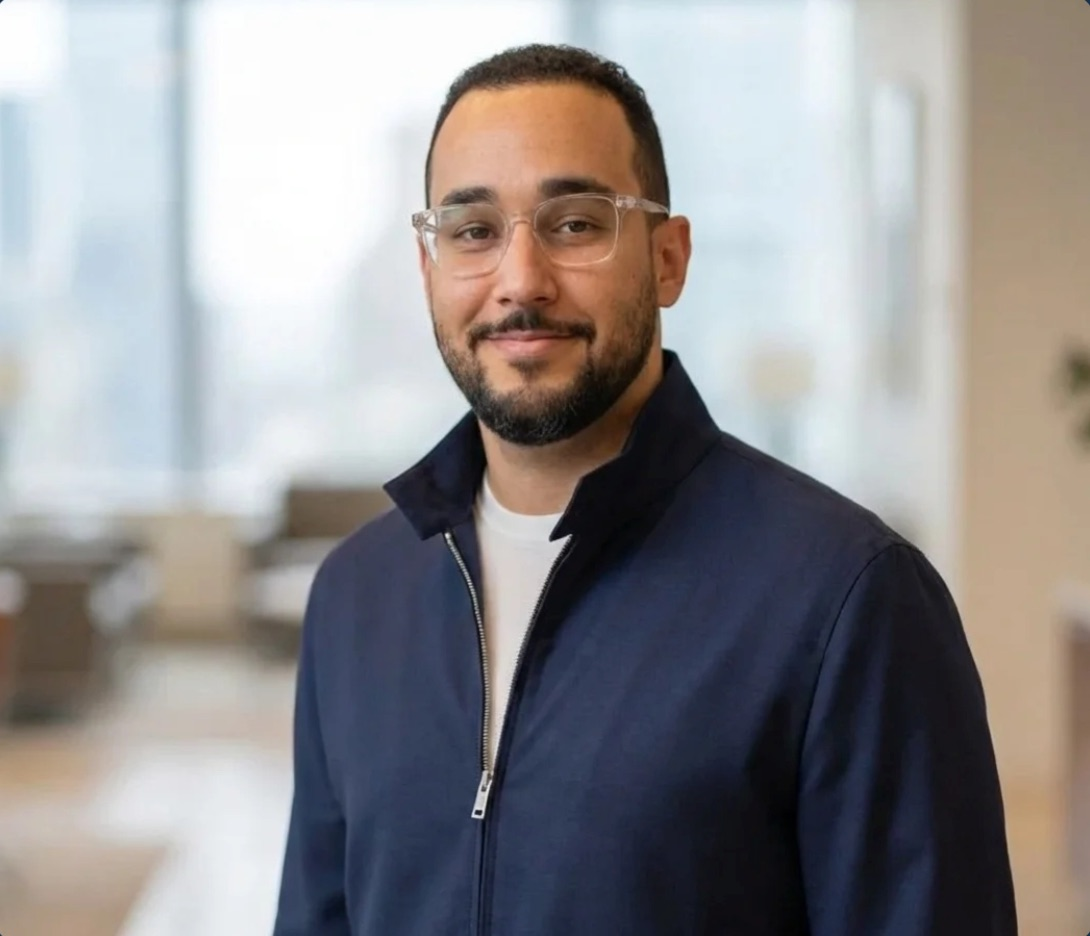
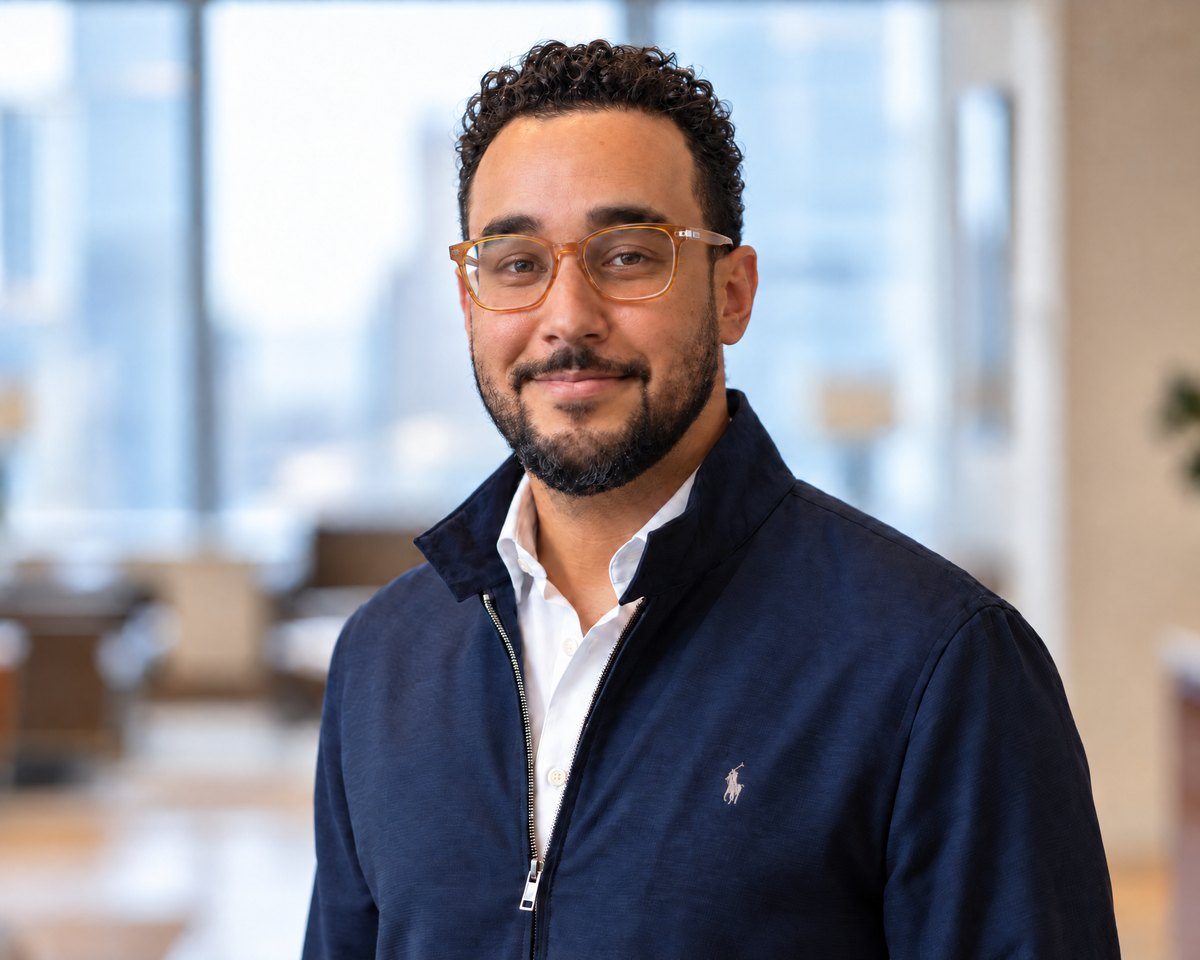
Atualiza textos, serviços, Gestão 360, FAQ e foto do fundador
- Primeira dobra: novo título e texto; cartão do fundador reescrito
- Pilares e públicos com os textos revisados
- Serviços: novo cartão de redes franqueadas e destaque de parceria
  com participação nos resultados
- Gestão 360: cinco cartões (inclui planejamento estratégico e gestão
  financeira) e resposta do FAQ alinhada
- FAQ: nova pergunta sobre o modelo sem investimento inicial
- Fundador: novo texto biográfico e nova foto

diff --git a/index.html b/index.html
@@ -51,21 +51,21 @@
   <section class="dark">
     <div class="wrap hero">
       <div class="hero-copy">
-        <h1>Gestão esportiva e negócios para <span>clubes e atletas</span></h1>
-        <p class="lead">A Horizon Sports &amp; Business atua na gestão de clubes, no desenvolvimento de carreiras de atletas e na estruturação de escolas e academias. Nosso trabalho reúne planejamento esportivo, marketing e negócios, com experiência em futebol, futsal e formação de atletas de alto rendimento.</p>
+        <h1>Gestão, marketing e operações <span>no esporte</span></h1>
+        <p class="lead">A Horizon Sports &amp; Business atua na gestão de clubes, no desenvolvimento de carreiras de atletas e na estruturação de escolas e academias. Trabalhamos com planejamento esportivo, marketing e desenvolvimento de negócios, com experiência relevante no futebol, no futsal e na formação de atletas de alto rendimento.</p>
         <div class="actions">
           <a href="#solucoes" class="btn">Conheça nossas soluções</a>
           <a href="#contato" class="btn btn-ghost">Converse com a Horizon</a>
         </div>
       </div>
       <div class="founder">
-        <img src="assets/thiago-amorim.jpg" alt="Thiago Amorim, fundador da Horizon Sports &amp; Business" width="1090" height="936">
+        <img src="assets/thiago-amorim.jpg" alt="Thiago Amorim, fundador da Horizon Sports &amp; Business" width="1200" height="960">
         <div class="founder-body">
           <div class="founder-top">
             <strong>Thiago Amorim</strong>
             <span>Fundador</span>
           </div>
-          <p>Profissional de Educação Física, com MBA em Gestão Estratégica de Negócios, pós-graduação em Gestão e Marketing do Esporte e mais de 20 anos de experiência em clubes, entidades e projetos do setor esportivo.</p>
+          <p>Profissional de Educação Física com mais de 20 anos de experiência em gestão, marketing e negócios no esporte. Possui MBA em Gestão Estratégica de Negócios e pós-graduação em Gestão e Marketing do Esporte.</p>
         </div>
       </div>
     </div>
@@ -79,11 +79,11 @@
         <h2 class="h2">Os cinco pilares de atuação</h2>
       </div>
       <div class="grid-5">
-        <div class="pillar"><span class="n">01</span><h3>Gestão</h3><p>Estruturamos a gestão de clubes, carreiras de atletas, escolas e academias, com processos, equipes e indicadores para orientar decisões.</p></div>
+        <div class="pillar"><span class="n">01</span><h3>Gestão</h3><p>Estruturamos a gestão de clubes, carreiras de atletas, escolas e academias, com processos definidos, responsabilidades claras e indicadores para orientar decisões.</p></div>
         <div class="pillar"><span class="n">02</span><h3>Marketing</h3><p>Trabalhamos a marca e a comunicação de clubes, atletas, escolas e academias para ampliar sua visibilidade e fortalecer o relacionamento com seus públicos.</p></div>
-        <div class="pillar"><span class="n">03</span><h3>Metodologia</h3><p>Organizamos programas de treinamento e ensino, com planejamento e critérios para acompanhar o desempenho esportivo e a formação de atletas e alunos.</p></div>
-        <div class="pillar"><span class="n">04</span><h3>Negócios</h3><p>Intermediamos patrocínios e desenvolvemos oportunidades de licenciamento e parcerias comerciais para clubes, atletas, escolas e academias, ampliando suas fontes de receita.</p></div>
-        <div class="pillar"><span class="n">05</span><h3>Gestão de Futebol e Futsal</h3><p>Atuamos na gestão 360 de departamentos de futebol e futsal, com expertise no planejamento esportivo e na formação e desenvolvimento de atletas de alto rendimento.</p></div>
+        <div class="pillar"><span class="n">03</span><h3>Metodologia</h3><p>Estruturamos programas de treinamento e ensino, com objetivos e critérios para acompanhar o desempenho e a evolução de atletas e alunos.</p></div>
+        <div class="pillar"><span class="n">04</span><h3>Negócios</h3><p>Intermediamos negócios, parcerias e patrocínios e desenvolvemos oportunidades de licenciamento e parcerias comerciais para clubes, atletas, escolas e academias, com foco na geração de receitas.</p></div>
+        <div class="pillar"><span class="n">05</span><h3>Gestão de Futebol e Futsal</h3><p>Atuamos na gestão 360 de departamentos de futebol e futsal, com planejamento esportivo, organização das equipes e metodologia para a formação e o desenvolvimento de atletas de alto rendimento.</p></div>
       </div>
     </div>
   </section>
@@ -97,10 +97,10 @@
       </div>
       <div class="grid-5">
         <div class="aud"><h3>Clubes</h3><p>Gestão de departamentos, planejamento esportivo, formação de atletas e desenvolvimento comercial, conforme as necessidades de cada clube.</p></div>
-        <div class="aud"><h3>Carreiras de atletas</h3><p>Planejamento esportivo e de carreira, posicionamento de marca e comunicação para apoiar o desenvolvimento do atleta e suas oportunidades comerciais.</p></div>
-        <div class="aud"><h3>Escolas esportivas</h3><p>Gestão da operação, metodologia de ensino e organização do relacionamento com alunos e famílias.</p></div>
+        <div class="aud"><h3>Carreiras de atletas</h3><p>Planejamento de carreira, posicionamento de marca e comunicação, com foco no desenvolvimento esportivo e nas oportunidades comerciais do atleta.</p></div>
+        <div class="aud"><h3>Escolas esportivas</h3><p>Gestão da operação, metodologia de ensino e relacionamento com alunos e famílias.</p></div>
         <div class="aud"><h3>Academias e centros esportivos</h3><p>Estruturação de processos, gestão de equipes e marketing para organizar a operação e desenvolver o negócio.</p></div>
-        <div class="aud"><h3>Marcas e demais profissionais do esporte</h3><p>Patrocínios, ativações e parcerias comerciais para marcas, além de projetos de comunicação e posicionamento para profissionais do setor.</p></div>
+        <div class="aud"><h3>Marcas e demais profissionais do esporte</h3><p>Patrocínios, ativações e parcerias comerciais para marcas. Comunicação e posicionamento para profissionais do esporte.</p></div>
       </div>
     </div>
   </section>
@@ -111,17 +111,25 @@
       <div class="head">
         <span class="eyebrow">Soluções</span>
         <h2 class="h2">Serviços para a gestão e o desenvolvimento no esporte</h2>
-        <p class="sub">Thiago Amorim conduz os projetos da Horizon, com escopo definido para cada contratação. A atuação pode envolver consultoria, estruturação de operações e acompanhamento da gestão.</p>
+        <p class="sub">Thiago Amorim conduz os projetos da Horizon em consultoria, estruturação de operações e acompanhamento da gestão. As entregas são definidas conforme as necessidades de cada cliente.</p>
       </div>
       <div class="svc-grid">
-        <article class="svc feat"><h3>Gestão de clubes e departamentos de futebol e futsal</h3><p>Organização do departamento, planejamento esportivo e estruturação de processos para integrar a gestão e o trabalho das equipes técnicas.</p></article>
-        <article class="svc"><h3>Desenvolvimento de carreiras de atletas</h3><p>Planejamento da trajetória esportiva, posicionamento de marca e comunicação, com ações definidas conforme o momento e os objetivos do atleta.</p></article>
-        <article class="svc"><h3>Consultoria para escolas e academias</h3><p>Diagnóstico e estruturação da operação, com processos, responsabilidades e indicadores para orientar a gestão.</p></article>
-        <article class="svc"><h3>Marketing esportivo</h3><p>Posicionamento de marca, comunicação, redes sociais e campanhas adequadas aos públicos e aos objetivos de cada projeto.</p></article>
-        <article class="svc"><h3>Intermediação de patrocínios e parcerias comerciais</h3><p>Prospecção de oportunidades e intermediação entre propriedades esportivas e marcas, com negociação de propostas e definição das entregas previstas em cada acordo.</p></article>
-        <article class="svc"><h3>Licenciamento e franquias</h3><p>Análise e estruturação de modelos de licenciamento e franquias, com definição de padrões, processos e responsabilidades da operação.</p></article>
-        <article class="svc"><h3>Implementação de academias de futebol</h3><p>Estruturação da metodologia, dos processos e da operação para implantação de academias de futebol.</p></article>
-        <article class="svc"><h3>Palestras e mentorias</h3><p>Conteúdo e orientação sobre gestão, marketing e negócios para dirigentes, atletas, gestores e profissionais do esporte.</p></article>
+        <article class="svc feat"><h3>Gestão de clubes e departamentos de futebol e futsal</h3><p>Organização de departamentos, planejamento esportivo e definição de processos para integrar a gestão do clube ao trabalho das equipes técnicas.</p></article>
+        <article class="svc"><h3>Desenvolvimento de carreiras de atletas</h3><p>Planejamento da carreira esportiva, posicionamento de marca e comunicação, conforme a etapa e os objetivos do atleta.</p></article>
+        <article class="svc feat"><h3>Criação de redes franqueadas de academias de futebol</h3><p>Estruturamos redes de academias de futebol para clubes, da definição do modelo de negócio à metodologia, aos padrões operacionais e ao planejamento de expansão.</p></article>
+        <article class="svc"><h3>Consultoria para escolas e academias</h3><p>Diagnóstico e organização da operação, com processos, responsabilidades e indicadores para orientar a gestão.</p></article>
+        <aside class="promo">
+          <div class="promo-copy">
+            <h3>Parceria com participação nos resultados</h3>
+            <p>Em projetos desenvolvidos nesse modelo, o clube não precisa realizar investimento inicial. A Horizon participa dos resultados, com responsabilidades e condições definidas para cada parceria.</p>
+          </div>
+          <a href="#contato" class="btn">Conhecer o modelo de parceria</a>
+        </aside>
+        <article class="svc"><h3>Marketing esportivo</h3><p>Posicionamento de marca, comunicação, redes sociais e campanhas alinhadas aos públicos e aos objetivos de cada projeto.</p></article>
+        <article class="svc"><h3>Intermediação de patrocínios e parcerias comerciais</h3><p>Prospecção de patrocinadores e parceiros comerciais, intermediação de contatos, negociação de propostas e definição das entregas de cada acordo.</p></article>
+        <article class="svc"><h3>Licenciamento e franquias</h3><p>Análise e estruturação de modelos de licenciamento e franquias, com padrões operacionais, processos e responsabilidades definidos.</p></article>
+        <article class="svc"><h3>Implementação de academias de futebol</h3><p>Implantação de academias de futebol, da metodologia de treinamento à estruturação dos processos e da operação.</p></article>
+        <article class="svc wide"><h3>Palestras e mentorias</h3><p>Conteúdo e orientação sobre gestão, marketing e negócios para dirigentes, atletas, gestores e profissionais do esporte.</p></article>
       </div>
       <div class="cta-row"><a href="#contato" class="btn">Solicitar proposta</a></div>
     </div>
@@ -133,12 +141,14 @@
       <div class="head">
         <span class="eyebrow">Gestão 360 na prática</span>
         <h2 class="h2">Gestão 360 de departamentos de futebol e futsal</h2>
-        <p class="sub">Atuamos na organização de departamentos de futebol e futsal, com planejamento esportivo, gestão de equipes e metodologia para a formação e o desenvolvimento de atletas de alto rendimento. O escopo é definido conforme a estrutura e os objetivos de cada clube.</p>
+        <p class="sub">Atuamos na gestão estratégica, financeira e esportiva de departamentos de futebol e futsal, da organização da operação à formação de atletas de alto rendimento. O escopo é definido conforme a estrutura e os objetivos de cada clube.</p>
       </div>
-      <div class="grid-3">
-        <article class="card"><h3>Organização do departamento</h3><p>Definição de processos, rotinas e responsabilidades para integrar a gestão do clube e o trabalho das equipes técnicas.</p></article>
+      <div class="grid-5">
+        <article class="card"><h3>Planejamento estratégico</h3><p>Definição de objetivos, prioridades e indicadores, com planos de ação alinhados à realidade do clube.</p></article>
+        <article class="card"><h3>Gestão financeira</h3><p>Planejamento orçamentário, acompanhamento de receitas e despesas e controle de custos para orientar a aplicação dos recursos do departamento.</p></article>
+        <article class="card"><h3>Organização do departamento</h3><p>Definição de processos, rotinas e responsabilidades para integrar a gestão do clube ao trabalho das equipes técnicas.</p></article>
         <article class="card"><h3>Planejamento esportivo</h3><p>Organização da temporada, dos calendários de treinamento e competição e dos objetivos de desenvolvimento por categoria.</p></article>
-        <article class="card"><h3>Formação e desenvolvimento de atletas</h3><p>Estruturação de metodologias e critérios de acompanhamento da evolução dos atletas, respeitando as etapas de formação e as exigências do alto rendimento.</p></article>
+        <article class="card"><h3>Formação e desenvolvimento de atletas</h3><p>Estruturação de metodologias e critérios para acompanhar a evolução dos atletas, respeitando as etapas de formação e as exigências do alto rendimento.</p></article>
       </div>
       <div class="cta-row"><a href="#contato" class="btn">Conversar sobre a gestão do clube</a></div>
     </div>
@@ -212,10 +222,10 @@
       <div class="about-copy">
         <span class="eyebrow">Fundador</span>
         <h2 class="h2">Quem é <span>Thiago Amorim</span></h2>
-        <p><strong>Thiago Amorim</strong> é fundador da Horizon Sports &amp; Business e conduz a estratégia e os projetos da empresa. É profissional de Educação Física, com MBA em Gestão Estratégica de Negócios, pós-graduação em Gestão e Marketing do Esporte e mais de 20 anos de experiência no setor.</p>
-        <p>Sua trajetória inclui funções de gestão no Palmeiras e no Corinthians, além da atuação como professor na CBF Academy. Reúne experiência em gestão de departamento de futebol e futsal, marketing, canais digitais, novos negócios, programas de sócios, licenciamento, franquias, operações de escolas oficiais e academias e formação de profissionais do esporte.</p>
-        <p>É autor e coautor de conteúdos e metodologias ligados à formação esportiva, incluindo metodologias de treinamento das academias e escolas oficiais de Palmeiras e Corinthians e o protocolo de retorno às atividades físicas da CBF durante a pandemia de Covid-19.</p>
-        <p>À frente da Horizon, aplica essa experiência à gestão, ao planejamento e ao desenvolvimento de projetos no esporte.</p>
+        <p><strong>Thiago Amorim</strong> é fundador da Horizon Sports &amp; Business e conduz a estratégia e os projetos da empresa. É profissional de Educação Física com mais de 20 anos de experiência em gestão, marketing e negócios no esporte. Possui MBA em Gestão Estratégica de Negócios e pós-graduação em Gestão e Marketing do Esporte.</p>
+        <p>Sua trajetória inclui cargos de gestão no Palmeiras e no Corinthians, com atuação em marketing, canais digitais, novos negócios, programas de sócios, licenciamento e franquias. Atualmente, é diretor de Futsal Federado e das Academias de Futebol da Juventus SAF, incluindo a gestão da rede de franquias.</p>
+        <p>É professor da CBF Academy e tem experiência na estruturação de escolas e academias de futebol, no desenvolvimento de metodologias e na capacitação de profissionais do esporte.</p>
+        <p>É autor e coautor de conteúdos técnicos, incluindo metodologias de treinamento das academias e escolas oficiais de Palmeiras e Corinthians e o protocolo da CBF para o retorno às atividades físicas durante a pandemia de Covid-19.</p>
       </div>
       <div class="facts">
         <div class="fact"><b>+20 anos</b><span>experiência no setor esportivo</span></div>
@@ -307,9 +317,10 @@
       </div>
       <div class="faq-list">
         <details name="faq"><summary>O que a Horizon faz?</summary><p>A Horizon Sports &amp; Business atua na gestão de clubes, no desenvolvimento de carreiras de atletas e na estruturação de escolas e academias. Os serviços incluem planejamento esportivo, metodologia, marketing, intermediação de patrocínios, licenciamento e parcerias comerciais.</p></details>
-        <details name="faq"><summary>O que está incluído na gestão 360 de futebol e futsal?</summary><p>O trabalho pode incluir organização do departamento, planejamento da temporada e estruturação de metodologias para formação e desenvolvimento de atletas. As responsabilidades e as entregas são definidas conforme a estrutura do clube e o escopo contratado.</p></details>
+        <details name="faq"><summary>O que está incluído na gestão 360 de futebol e futsal?</summary><p>O trabalho pode incluir planejamento estratégico, gestão financeira, organização do departamento, planejamento esportivo e estruturação de metodologias para formação e desenvolvimento de atletas. As responsabilidades e as entregas são definidas conforme a estrutura do clube e o escopo contratado.</p></details>
         <details name="faq"><summary>Como a Horizon trabalha com atletas?</summary><p>O trabalho reúne planejamento esportivo e de carreira, posicionamento de marca e comunicação. As ações são definidas conforme a etapa da carreira, os objetivos e as necessidades do atleta.</p></details>
         <details name="faq"><summary>Como funciona a intermediação de patrocínios?</summary><p>Identificamos oportunidades, aproximamos propriedades esportivas e marcas e conduzimos a negociação das propostas. O escopo pode incluir a definição das entregas e o acompanhamento da relação comercial, conforme a contratação. A prospecção não representa garantia de fechamento de patrocínio.</p></details>
+        <details name="faq"><summary>Como funciona o modelo sem investimento inicial?</summary><p>A Horizon oferece um formato de parceria em que sua remuneração está vinculada aos resultados do projeto, sem investimento inicial do clube. O escopo, as responsabilidades e os critérios de participação são definidos na proposta.</p></details>
         <details name="faq"><summary>Quem conduz os projetos?</summary><p>Thiago Amorim conduz a definição do projeto e o acompanhamento das entregas. As responsabilidades de cada participante são estabelecidas no escopo contratado.</p></details>
         <details name="faq"><summary>Posso contratar um serviço específico?</summary><p>A proposta é construída conforme a necessidade do projeto. Pode contemplar uma frente específica ou combinar serviços de gestão, metodologia, marketing e negócios.</p></details>
         <details name="faq"><summary>Atendem escolas franqueadas, licenciadas e independentes?</summary><p>Sim. O trabalho considera o modelo de operação e as responsabilidades de cada formato, com ações adequadas à estrutura da escola.</p></details>

diff --git a/assets/style.css b/assets/style.css
@@ -95,6 +95,11 @@ section[id]{scroll-margin-top:92px}
 .svc h3{font-size:17px;font-weight:700;line-height:1.3}
 .svc p{font-size:14.5px;line-height:1.6;color:var(--muted)}
 .svc.feat{grid-column:span 2;background:var(--navy);border-color:var(--navy);color:#fff;border-top:3px solid var(--orange);padding:32px;justify-content:center}
+.svc.wide{grid-column:span 2}
+.promo{grid-column:1/-1;display:flex;align-items:center;justify-content:space-between;gap:24px;background:#FFF1E8;border:1px solid #FBD3B8;border-left:6px solid var(--orange);border-radius:14px;padding:28px 32px}
+.promo h3{font-size:22px;font-weight:700;line-height:1.25;margin-bottom:6px}
+.promo p{font-size:16px;line-height:1.6;color:var(--muted);max-width:640px}
+.promo .btn{flex-shrink:0}
 .svc.feat h3{font-size:24px}
 .svc.feat p{font-size:16px;color:rgba(255,255,255,.85);max-width:560px}
 
@@ -227,12 +232,11 @@ section[id]{scroll-margin-top:92px}
   .grid-5{grid-template-columns:repeat(2,1fr)}
   .grid-5>*,.grid-5>:nth-child(4){grid-column:span 1}
   .grid-5>:nth-child(5){grid-column:1/-1}
-  .svc-grid{grid-template-columns:repeat(2,1fr)}
+  .svc-grid{grid-template-columns:repeat(2,1fr);grid-auto-flow:dense}
   .grid-xp{grid-template-columns:repeat(2,1fr)}
   .grid-xp>*,.grid-xp>:nth-child(1),.grid-xp>:nth-child(2){grid-column:span 1}
   .grid-xp>:nth-child(5){grid-column:1/-1}
-  .svc.feat{grid-column:1/-1}
-  .svc-grid>.svc:last-child{grid-column:1/-1}
+  .svc.feat,.svc.wide{grid-column:1/-1}
   .grid-2{grid-template-columns:1fr}
   .hero,.about,.contact{gap:40px}
 }
@@ -266,7 +270,9 @@ section[id]{scroll-margin-top:92px}
   .grid-5{grid-template-columns:1fr}
   .grid-5>*,.grid-5>:nth-child(n){grid-column:auto}
   .svc-grid{grid-template-columns:1fr}
-  .svc.feat,.svc-grid>.svc:last-child{grid-column:auto}
+  .svc.feat,.svc.wide{grid-column:auto}
+  .promo{flex-direction:column;align-items:flex-start;gap:18px;padding:22px}
+  .promo .btn{width:100%}
   .svc.feat{padding:24px}
   .svc.feat h3{font-size:21px}
   .pillar,.aud,.card,.xp,.step{padding:22px}
